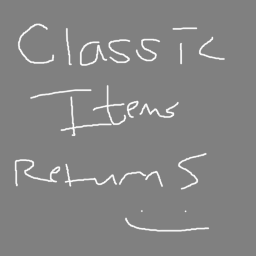
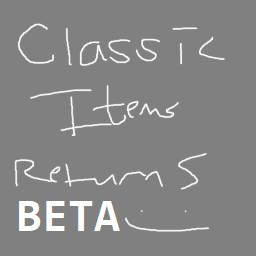
updated readme stuff

Changed region(s): [[0.0625, 0.7812, 0.4688, 0.9062]]

diff --git a/RiskyClassicItemsSolution/TS-Release/README.md b/RiskyClassicItemsSolution/TS-Release/README.md
@@ -1,7 +1,8 @@
 # ClassicItemsReturns
+**BETA RELEASE**
+
 This mod adds items and equipment from Risk of Rain / Returns. 
 
-This is *not* a replacement for Classic Items or Lost in Transit. Just an alternative.
 | Icon | Item | Desc |
 |:--:|:--:|--|
 | Common | | |
@@ -38,7 +39,6 @@ This is *not* a replacement for Classic Items or Lost in Transit. Just an altern
 | ![](https://raw.githubusercontent.com/DestroyedClone/RiskyClassicItems/master/RiskyClassicItemsUnityProject/Assets/Sprites/Icons/texLostDollIcon.png) | Lost Doll | Sacrifice `25% of your current health` to `damage` an enemy for `500% of your maximum health`.
 
 ### Suggestions
-- For implemented artifacts, see [Risky Artifacts](https://thunderstore.io/package/Moffein/Risky_Artifacts/)
 
 ### Mod Compat
 - Risky Mod
